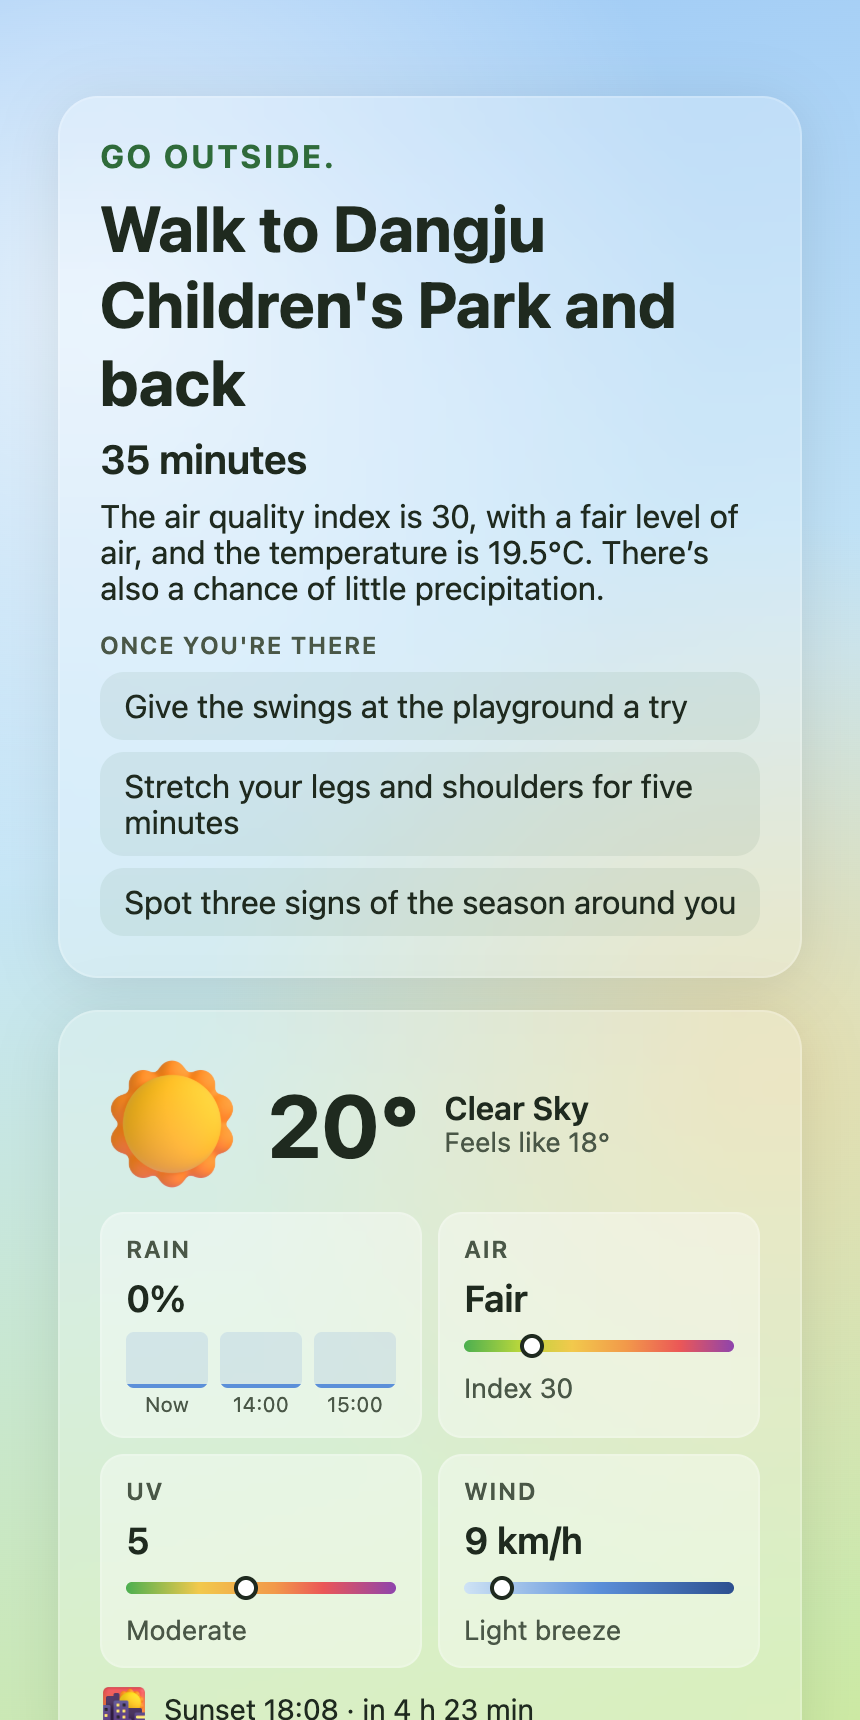
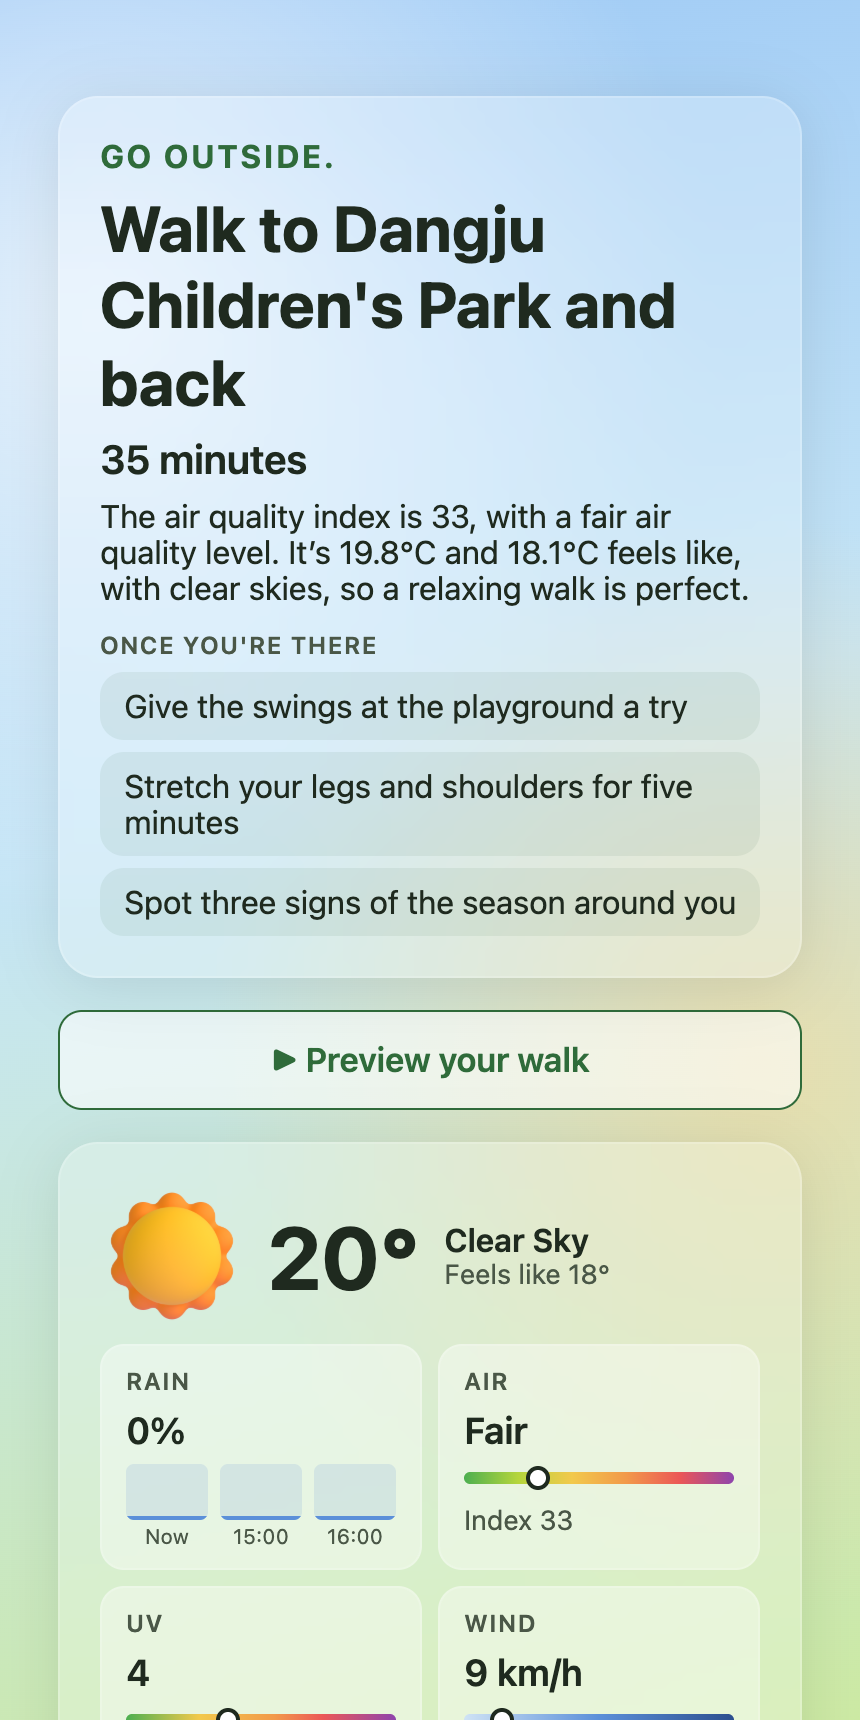
docs: describe the walk preview video
- Add the preview to the intro and How it works
- Add preview.gif made from a recorded preview
- Recapture demo.gif and result.png with the new button
- Note the switch for parks Gemma names outside the list

Entire-Checkpoint: 01M47VYA2J0T4WQAWKFMWEGYQJ

diff --git a/README.md b/README.md
@@ -3,17 +3,18 @@
 One tap, one suggestion, then put your phone away.
 
 <p align="center">
-  <img src="docs/demo.gif" width="300" alt="Answering the questionnaire, choosing 60 minutes in Seoul, getting a park walk with things to do, the weather, and a route map, then switching outfits for people who run cold or warm">
+  <img src="docs/demo.gif" width="300" alt="Answering the questionnaire, choosing 60 minutes in Seoul, getting a park walk with things to do, a Preview your walk button, the weather, and a route map, then switching outfits for people who run cold or warm">
+  <img src="docs/preview.gif" width="270" alt="Walk preview video: your next 35 minutes, dressing the avatar in a hoodie and long pants, the route drawn to Dangju Children's Park, arriving at a park with a playground in autumn colors, each thing to do, and Leave now, back by 15:05">
 </p>
 
 <p align="center">
   <img src="docs/questionnaire.png" width="200" alt="First-visit questionnaire with a button to let the AI decide everything">
   <img src="docs/home.png" width="200" alt="Home screen with a summary of the saved answers and the time slider">
-  <img src="docs/result.png" width="200" alt="Suggested walk to a park with a playground, things to do there, and the weather panel">
+  <img src="docs/result.png" width="200" alt="Suggested walk to a park with a playground, things to do there, the Preview your walk button, and the weather panel">
   <img src="docs/outfit-cold.png" width="200" alt="Outfit for people who run cold, shown on an avatar and item cards">
 </p>
 
-On your first visit, a short questionnaire asks how you like to move, what you enjoy, who usually comes along, and whether you ride public bikes; you can also skip it and let the AI decide everything. The app then checks the weather, air quality, nearby parks, and (in Seoul) public bikes, and asks Gemma running locally through Ollama to pick a single outdoor activity that fits the time you have and your answers. It suggests a few things to do once you get there, shows a round-trip walking route on a map, and dresses an avatar for the weather.
+On your first visit, a short questionnaire asks how you like to move, what you enjoy, who usually comes along, and whether you ride public bikes; you can also skip it and let the AI decide everything. The app then checks the weather, air quality, nearby parks, and (in Seoul) public bikes, and asks Gemma running locally through Ollama to pick a single outdoor activity that fits the time you have and your answers. It suggests a few things to do once you get there, shows a round-trip walking route on a map, and dresses an avatar for the weather. Tap "Preview your walk" to watch a music video of about 30 seconds of the outing (getting dressed, the route, the park, and each thing to do) that you can save or share.
 
 ## Run locally
 
@@ -44,8 +45,9 @@ Set `SENTRY_DSN` to send traces to Sentry. Each request then shows up as one tra
 - `apps/server/src/agent.ts` is a Mastra agent pointed at Ollama's OpenAI-compatible endpoint. The model only picks from real candidate parks and a fixed clothing catalog, so it never invents coordinates or items.
 - `apps/server/src/outfit.ts` builds a baseline outfit from the Korean feels-like temperature chart; the model may adjust it, but rain, air quality, UV, and cold extras are always kept. It also offers one layer warmer and one layer lighter for people who run cold or warm.
 - `apps/server/src/workflow.ts` runs each request as a Mastra workflow with four steps: gather conditions, ask Gemma for a JSON suggestion, check the answer with zod (falling back to simple rules if the model is unavailable or returns invalid output), and plan the walking route. While Gemma is thinking, one OSRM request fetches the round trip to every candidate park, so the route is usually ready by the time it's needed. The step logic lives in `apps/server/src/recommend.ts`.
-- Questionnaire answers are saved in the browser's localStorage and sent with each request. Gemma uses them to choose among the real parks, and parks are ranked by matching features (exercise prefers a sports field or track, kids prefer a playground). If Gemma picks a park known to match none of the answers while another park does, the server switches to that park; the rule-based fallback uses the same ranking. Answering "walking only" removes bikes from every suggestion.
+- Questionnaire answers are saved in the browser's localStorage and sent with each request. Gemma uses them to choose among the real parks, and parks are ranked by matching features (exercise prefers a sports field or track, kids prefer a playground). If Gemma picks a park known to match none of the answers while another park does, or names a park that isn't on the list, the server switches to the best listed park; the rule-based fallback uses the same ranking. Answering "walking only" removes bikes from every suggestion.
 - `apps/web` shows the questionnaire on the first visit, the suggestion with things to do, a weather panel (sky icon, hourly rain chance for the next 3 hours, air quality, UV, wind, and sunset), the route with Leaflet + OpenStreetMap, and the outfit as a layered SVG avatar next to item cards.
+- "Preview your walk" (`apps/web/src/WalkPreview.tsx`) draws a 9:16 story on a canvas: the sky and time, the outfit popping onto the avatar, the route traced to the park, the park drawn from its OpenStreetMap features in the current season's colors, one scene per thing to do, and when to be back (plus sunset when it's close). The server tags each thing to do with a scene type (`thingScenes`) so the picture fits the idea. The music is made in the browser with the Web Audio API (`previewMusic.ts`), and its mood follows the weather: bright on clear days, mellow when cloudy, lo-fi in rain, and slower at night; scene cuts land on the beat. While it plays, `MediaRecorder` records the canvas and music into an MP4 (WebM where MP4 isn't supported) for the save and share buttons. Nothing leaves the browser, and with reduced motion turned on it shows still frames instead of animation. The preview code loads only when you open it.
 
 ## Agent sessions
 
